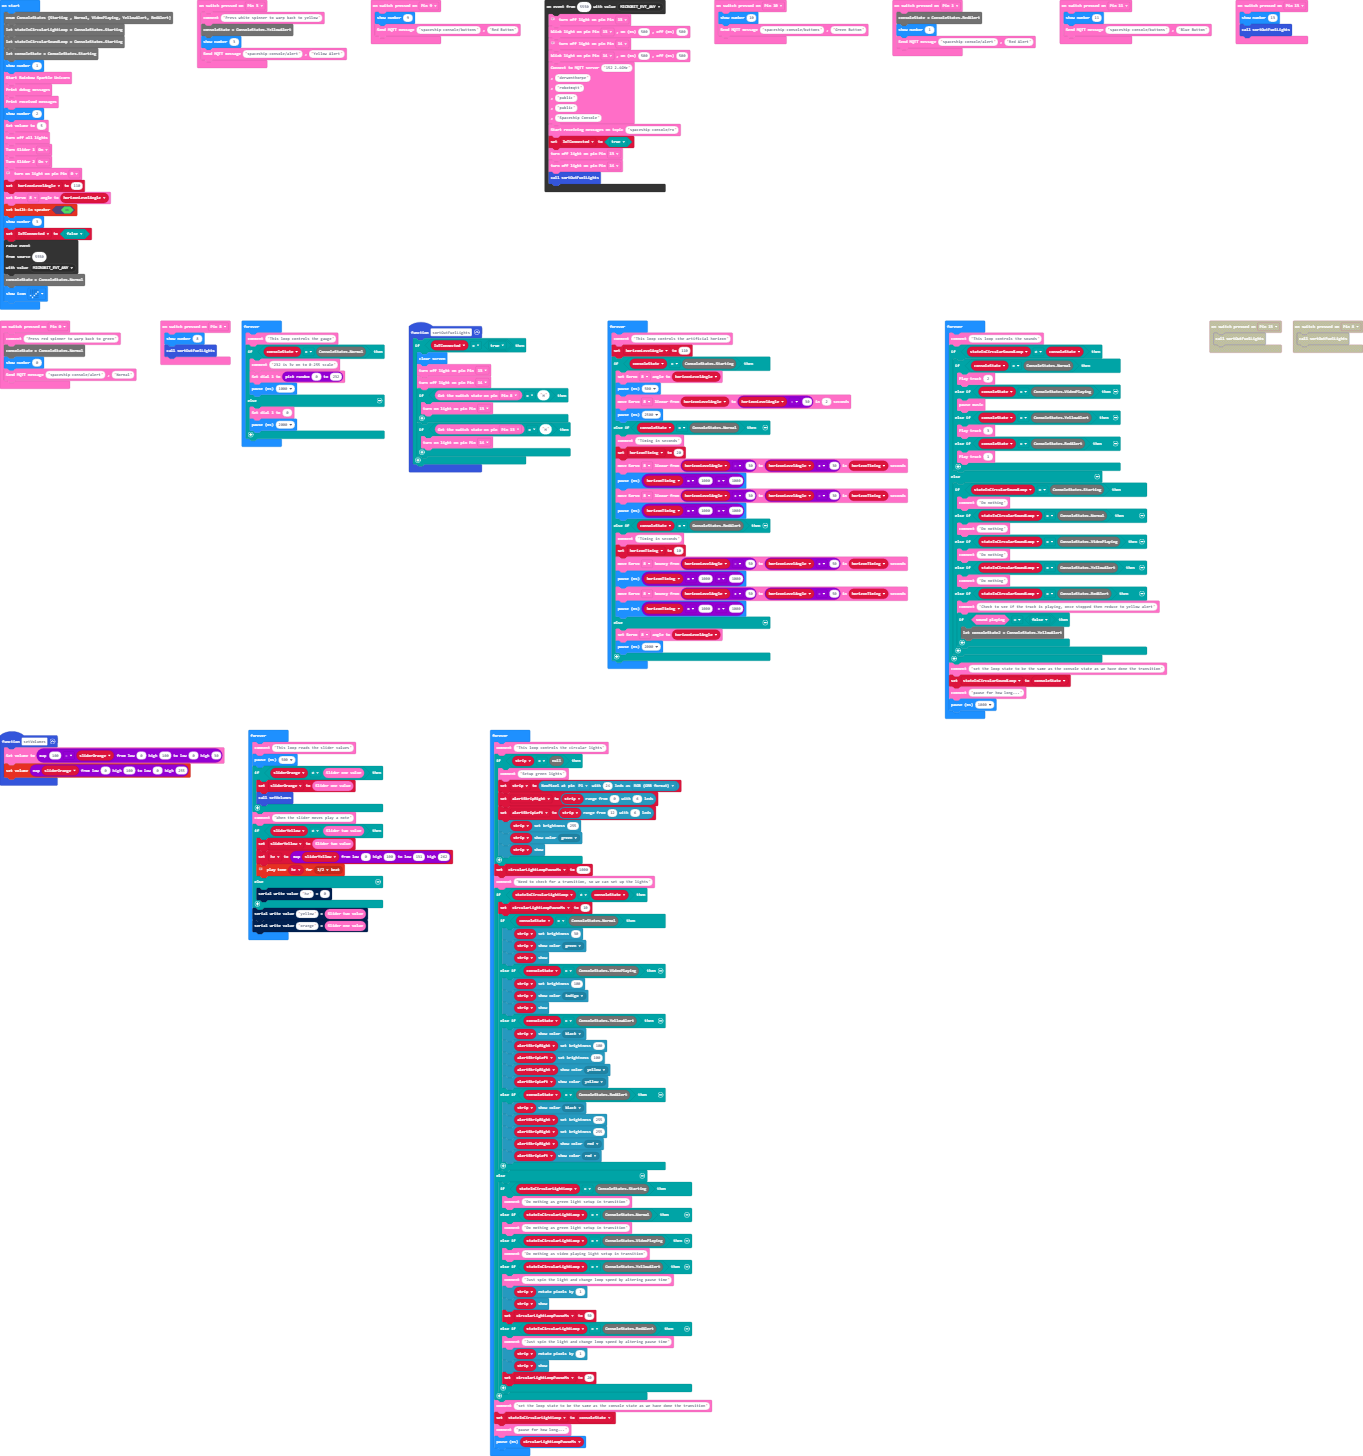
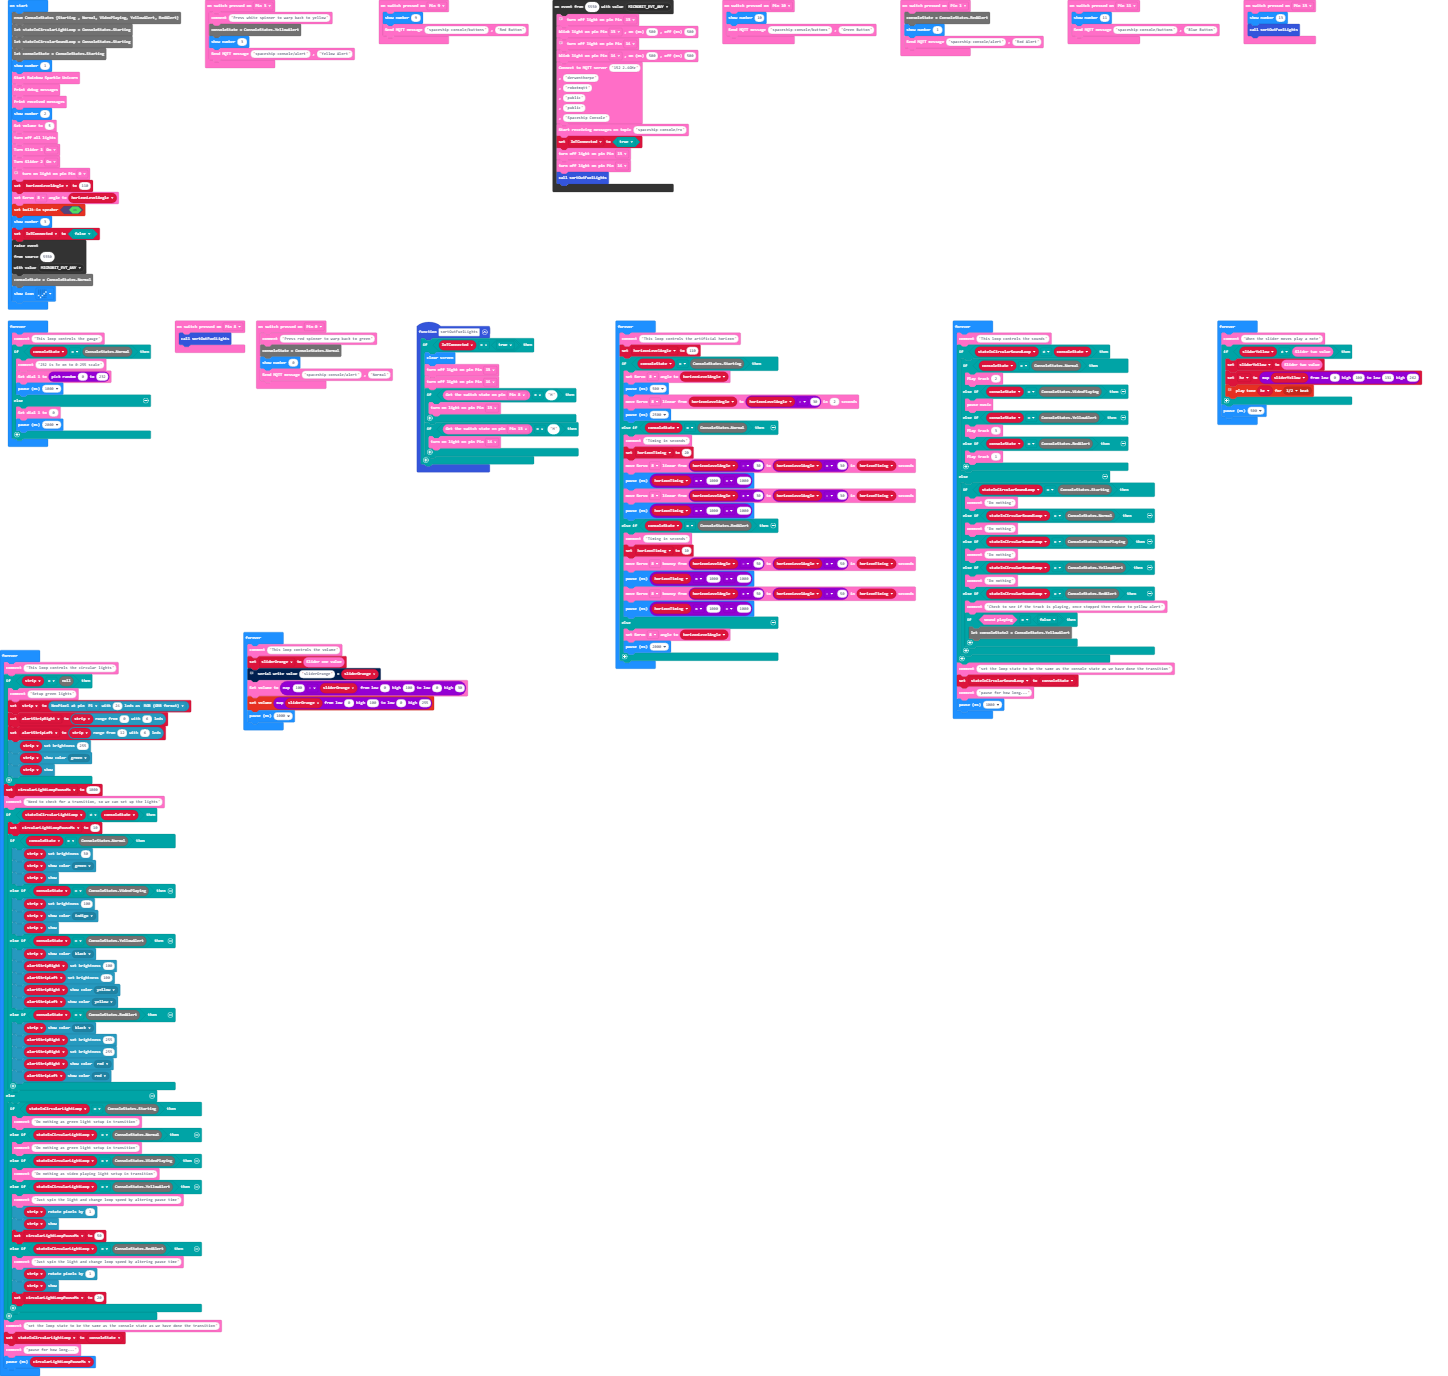
Update main.blocks, main.ts

Changed region(s): [[0.0, 0.0, 1.0, 1.0]]

diff --git a/main.ts b/main.ts
@@ -1,7 +1,3 @@
-function setVolumes () {
-    RainbowSparkleUnicorn.Sound.setVolume(Math.map(100 - sliderOrange, 0, 100, 0, 30))
-    music.setVolume(Math.map(sliderOrange, 0, 100, 0, 255))
-}
 RainbowSparkleUnicorn.Switch.onSwitchPressed(switchPins.P3, function () {
     RainbowSparkleUnicorn.comment("Press white spinner to warp back to yellow")
     consoleState = ConsoleStates.YellowAlert
@@ -70,17 +66,16 @@ basic.showNumber(0)
     RainbowSparkleUnicorn.IoT.sendMQTTMessage("spaceship-console/alert", "Normal")
 })
 RainbowSparkleUnicorn.Switch.onSwitchPressed(switchPins.P8, function () {
-    basic.showNumber(8)
     sortOutFuelLights()
 })
 let circularLightLoopPauseMs = 0
 let alertStripLeft: neopixel.Strip = null
 let alertStripRight: neopixel.Strip = null
 let strip: neopixel.Strip = null
+let sliderOrange = 0
 let hz = 0
 let sliderYellow = 0
 let horizonTiming = 0
-let sliderOrange = 0
 let IoTConnected = false
 enum ConsoleStates {Starting , Normal, VideoPlaying, YellowAlert, RedAlert}
 let stateInCircularLightLoop = ConsoleStates.Starting
@@ -180,12 +175,6 @@ basic.forever(function () {
     basic.pause(1000)
 })
 basic.forever(function () {
-    RainbowSparkleUnicorn.comment("This loop reads the slider values")
-    basic.pause(500)
-    if (sliderOrange != RainbowSparkleUnicorn.Controls.Slider1()) {
-        sliderOrange = RainbowSparkleUnicorn.Controls.Slider1()
-        setVolumes()
-    }
     RainbowSparkleUnicorn.comment("When the slider moves play a note")
     if (sliderYellow != RainbowSparkleUnicorn.Controls.Slider2()) {
         sliderYellow = RainbowSparkleUnicorn.Controls.Slider2()
@@ -194,11 +183,17 @@ basic.forever(function () {
         // music.setPlayTone(Math.map(sliderYellow, 0, 100, 131, 262),500)
         // serial.writeValue("hz", hz)
         music.playTone(hz, music.beat(BeatFraction.Half))
-    } else {
-        serial.writeValue("hz", 0)
     }
-    serial.writeValue("yellow", RainbowSparkleUnicorn.Controls.Slider2())
-    serial.writeValue("orange", RainbowSparkleUnicorn.Controls.Slider1())
+    basic.pause(500)
+})
+basic.forever(function () {
+    RainbowSparkleUnicorn.comment("This loop controls the volume")
+    sliderOrange = RainbowSparkleUnicorn.Controls.Slider1()
+    // setVolumes()
+    serial.writeValue("sliderOrange", sliderOrange)
+    RainbowSparkleUnicorn.Sound.setVolume(Math.map(100 - sliderOrange, 0, 100, 0, 30))
+    music.setVolume(Math.map(sliderOrange, 0, 100, 0, 255))
+    basic.pause(1000)
 })
 basic.forever(function () {
     RainbowSparkleUnicorn.comment("This loop controls the circular lights")
